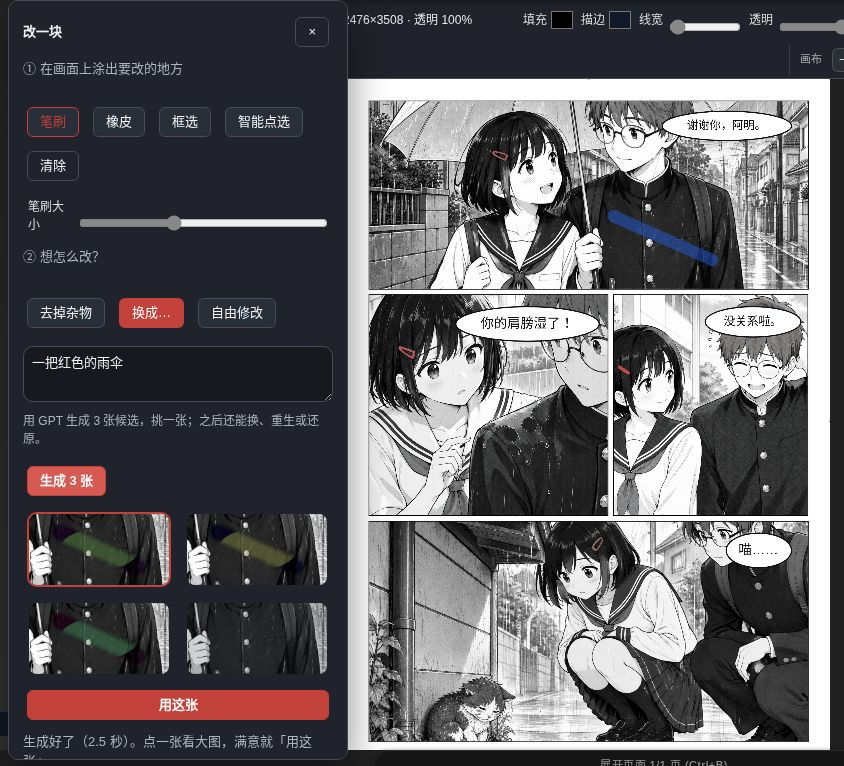
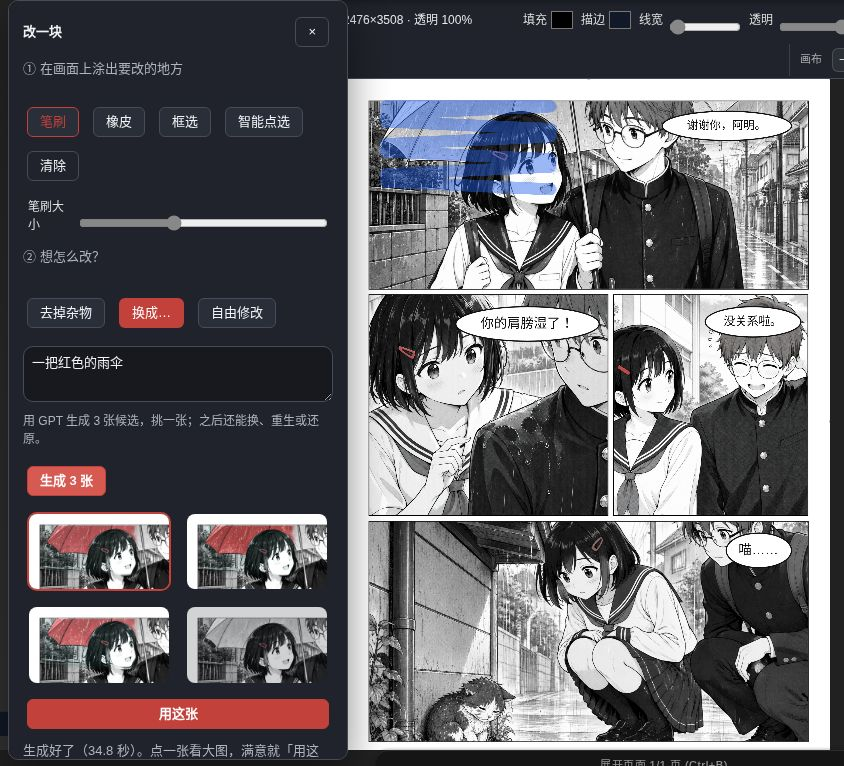
docs: real gpt-image-2.5 screenshots for 改一块 / 剧本成页, hero.gif; note real-GPT 改一块 behaviour

Changed region(s): [[0.0308, 0.6606, 0.4005, 0.9909], [0.4313, 0.1201, 0.6777, 0.2702], [0.7085, 0.2702, 0.8626, 0.3603]]

diff --git a/README_EN.md b/README_EN.md
@@ -93,7 +93,7 @@ The browser opens `http://127.0.0.1:8000/index.html`. The launcher window is the
 - **Panel detection needs white gutters** — borderless, full-bleed or black-gutter pages need manual boxes.
 - **Local AI is CPU-only** — first character detection takes 20–60 s; slow on machines with < 8 GB RAM.
 - **Windows is not yet verified on a real machine.** Every commit runs `一键启动.bat` for real on `windows-latest` CI (from a path with spaces and Chinese characters, checking the page and the local API), but nobody has walked through it on a physical PC yet. See [docs/dev/WINDOWS_READINESS.md](docs/dev/WINDOWS_READINESS.md).
-- Real-GPT quality of "replace with… / free edit" and the character library's automatic reference has not been re-verified on 1.5.
+- "Edit an area → replace with…" was verified with real gpt-image-2.5 (3 candidates in ~35 s): the painted area is replaced cleanly and panel borders are kept, but **only the painted pixels change** — if the object extends beyond your strokes, the rest of it stays as it was (e.g. only the painted part of an umbrella turns red). Paint the whole object to replace all of it. On black-and-white pages, a colour replacement may lightly tint other things inside the painted area. The character library's automatic reference is not yet re-verified with real GPT on 1.5.
 - Colour pages export to PSD at about 16–18 MB (lossless); black-and-white pages about 6 MB.
 - OCR targets Japanese manga; handwriting and stylised lettering are weaker.
 

diff --git a/README.md b/README.md
@@ -95,7 +95,7 @@ Manga-NAI-GPT 是基于 [Manga Editor Desu](https://github.com/new-sankaku/manga
 - **自动找格子需要白色格间留白**：无边框、满版出血、黑底分格要手动框选。
 - **本机 AI 只用 CPU**：首次人物识别 20–60 秒，内存 < 8 GB 的电脑会偏慢。
 - **Windows 尚未在真实电脑上完整验证**：每次提交 CI 都会在 `windows-latest` 上真正运行「一键启动.bat」（从带空格和中文的路径启动，检查页面和本机接口），但还没在真人电脑上逐项试过。见 [docs/dev/WINDOWS_READINESS.md](docs/dev/WINDOWS_READINESS.md)。
-- 「改一块」的「换成… / 自由修改」和角色库自动带参考，用真实 GPT 的效果还没有在 1.5 上重新验证。
+- 「改一块 → 换成…」已用真实 gpt-image-2.5 验证（3 张候选约 35 秒）：涂到的地方换得自然、格框不受影响；但**只改涂到的地方**，物体如果超出涂抹范围，露在外面的部分会保持原样（例如雨伞只有涂到的一截变红）。要换整个物体请把它整个涂满。黑白页上换成彩色物体时，涂抹范围里的其他东西也可能被轻微上色。角色库自动带参考的真实效果还没有在 1.5 上重新验证。
 - 彩色页导出 PSD 约 16–18 MB（无损）；黑白页约 6 MB。
 - 文字识别以日文漫画为主；手写体、艺术字识别率较低。
 
